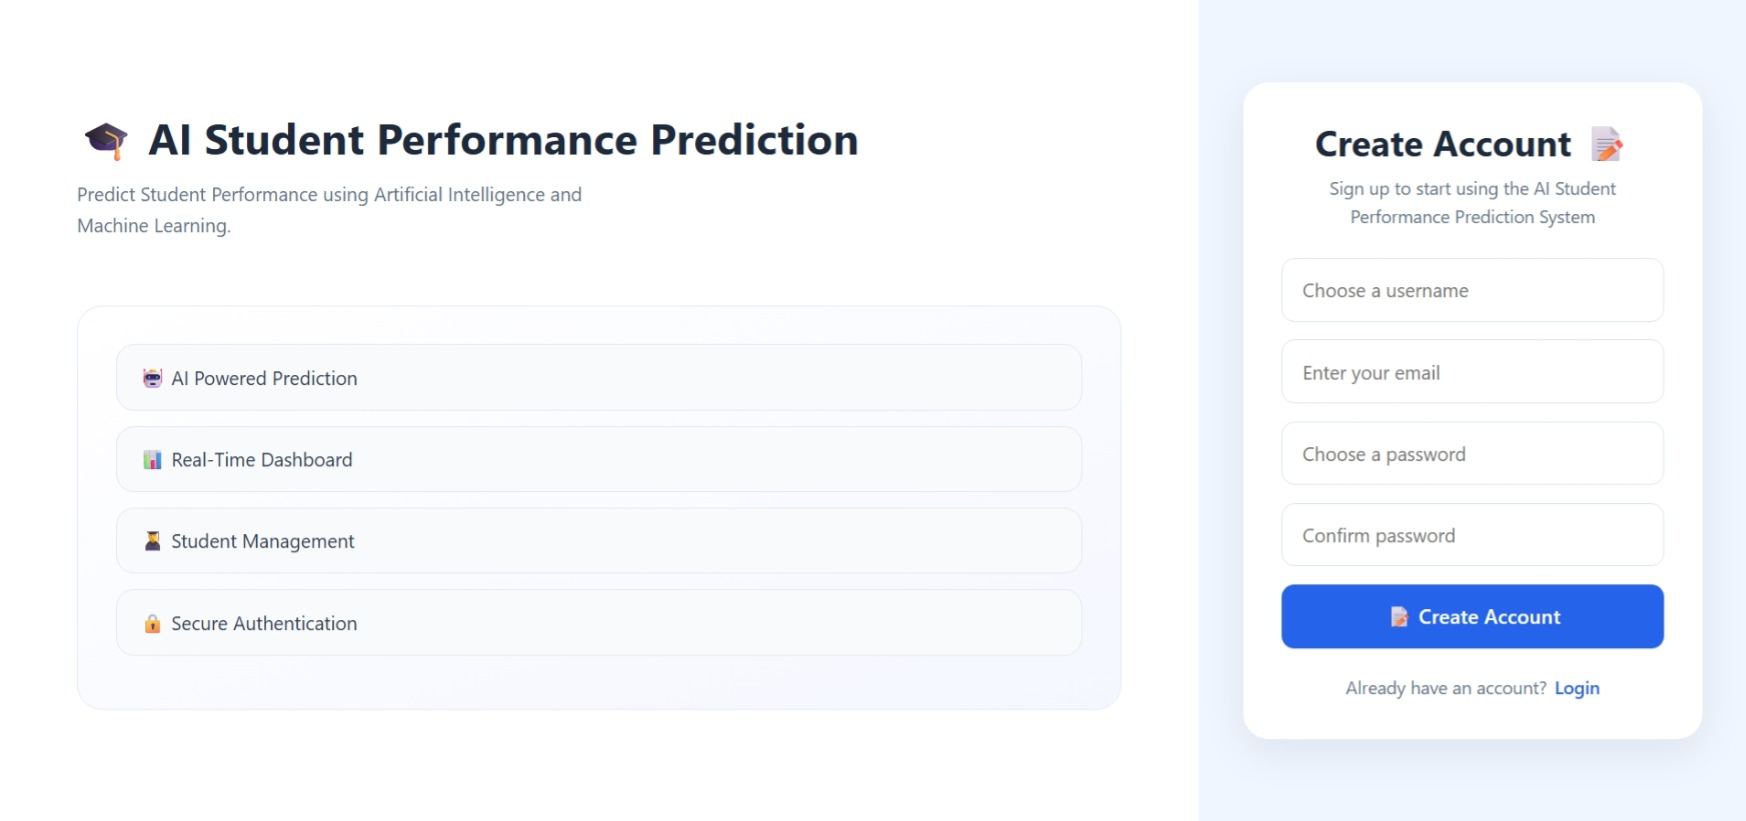
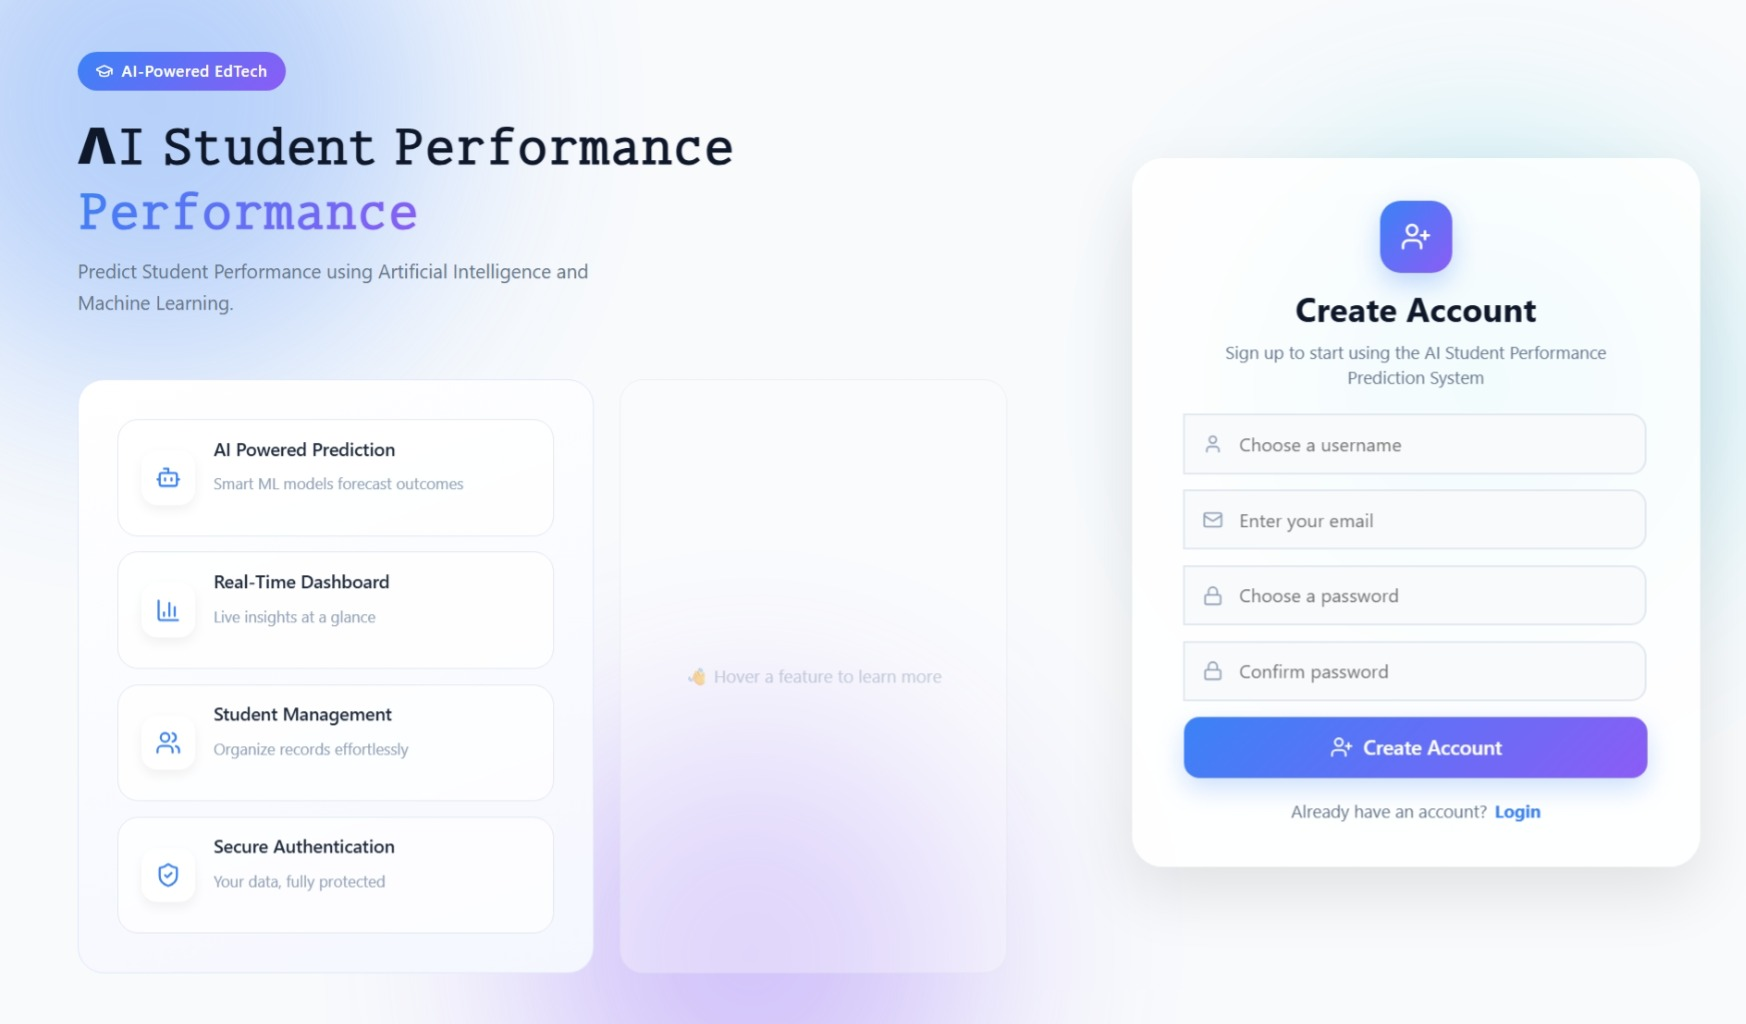
Apply signup-page class and scoped CSS for feature detail placeholder

diff --git a/Frontend/src/css/login.css b/Frontend/src/css/login.css
@@ -492,3 +492,22 @@ body {
     .login-card { max-width: 420px; }
 
 }
+
+/* ---------------- SIGNUP PAGE ONLY OVERRIDES ---------------- */
+
+.signup-page .feature-detail-panel {
+    opacity: 1;
+    align-items: center;
+    text-align: center;
+}
+
+.signup-page .feature-detail-panel.visible {
+    align-items: flex-start;
+    text-align: left;
+}
+
+.signup-page .feature-detail-placeholder {
+    font-size: 14px;
+    font-weight: 500;
+    color: #94a3b8;
+}

diff --git a/Frontend/src/pages/Signup.jsx b/Frontend/src/pages/Signup.jsx
@@ -94,7 +94,7 @@ function Signup() {
 
     return (
 
-        <div className="login-page">
+        <div className="login-page signup-page">
 
             <div className="blob blob-1"></div>
             <div className="blob blob-2"></div>
